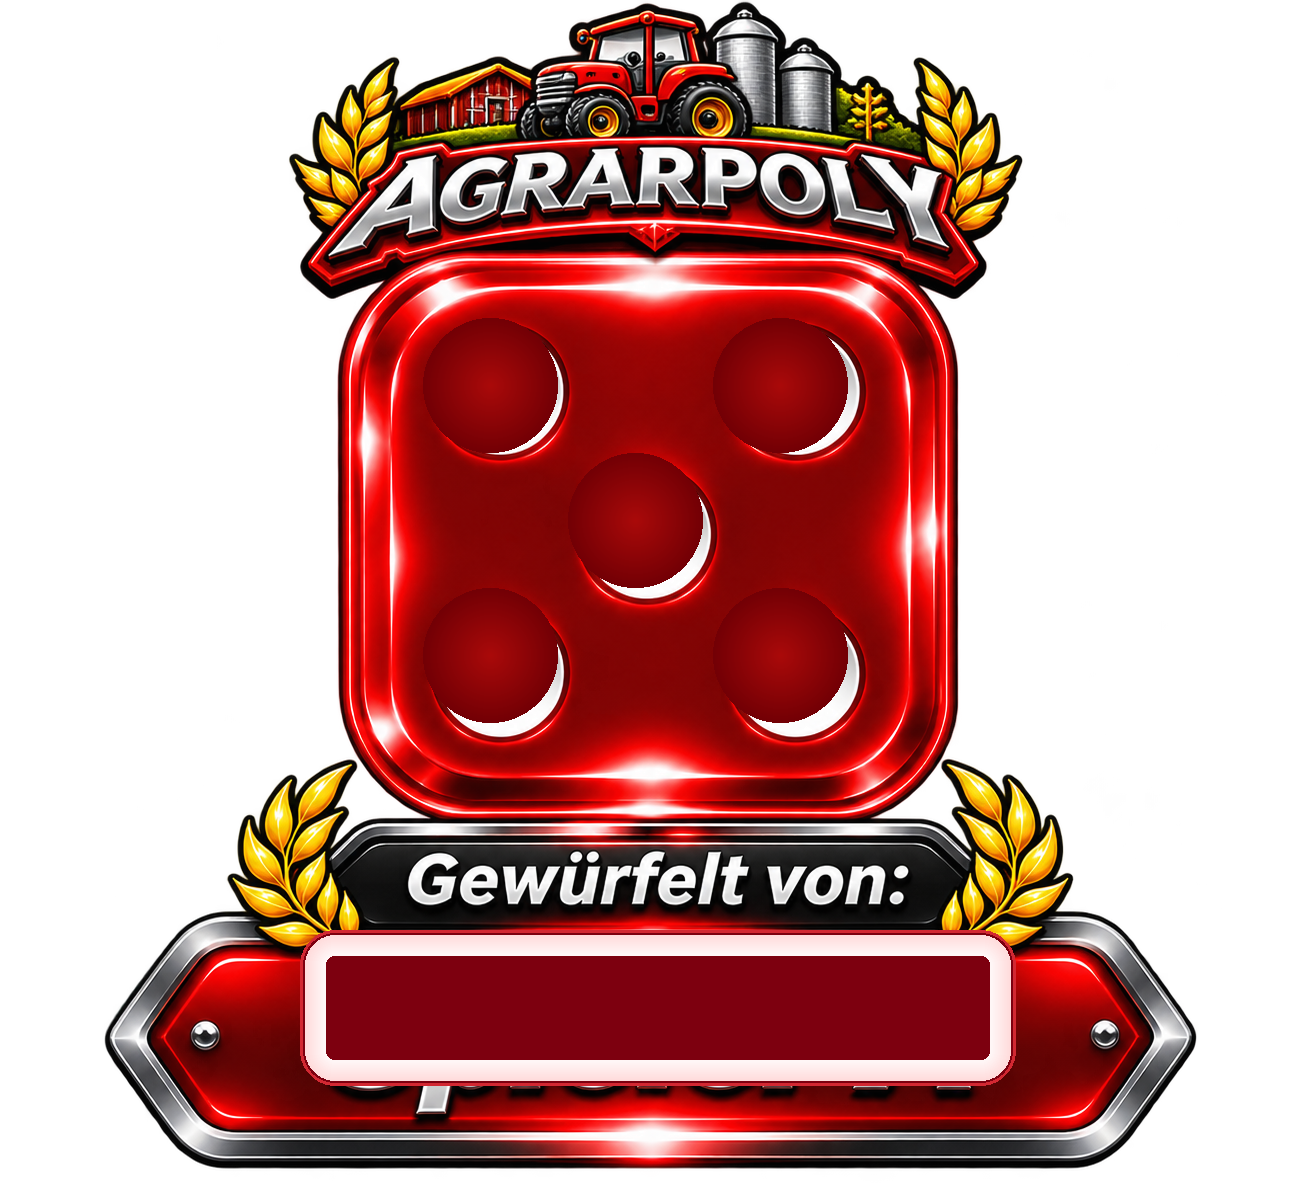
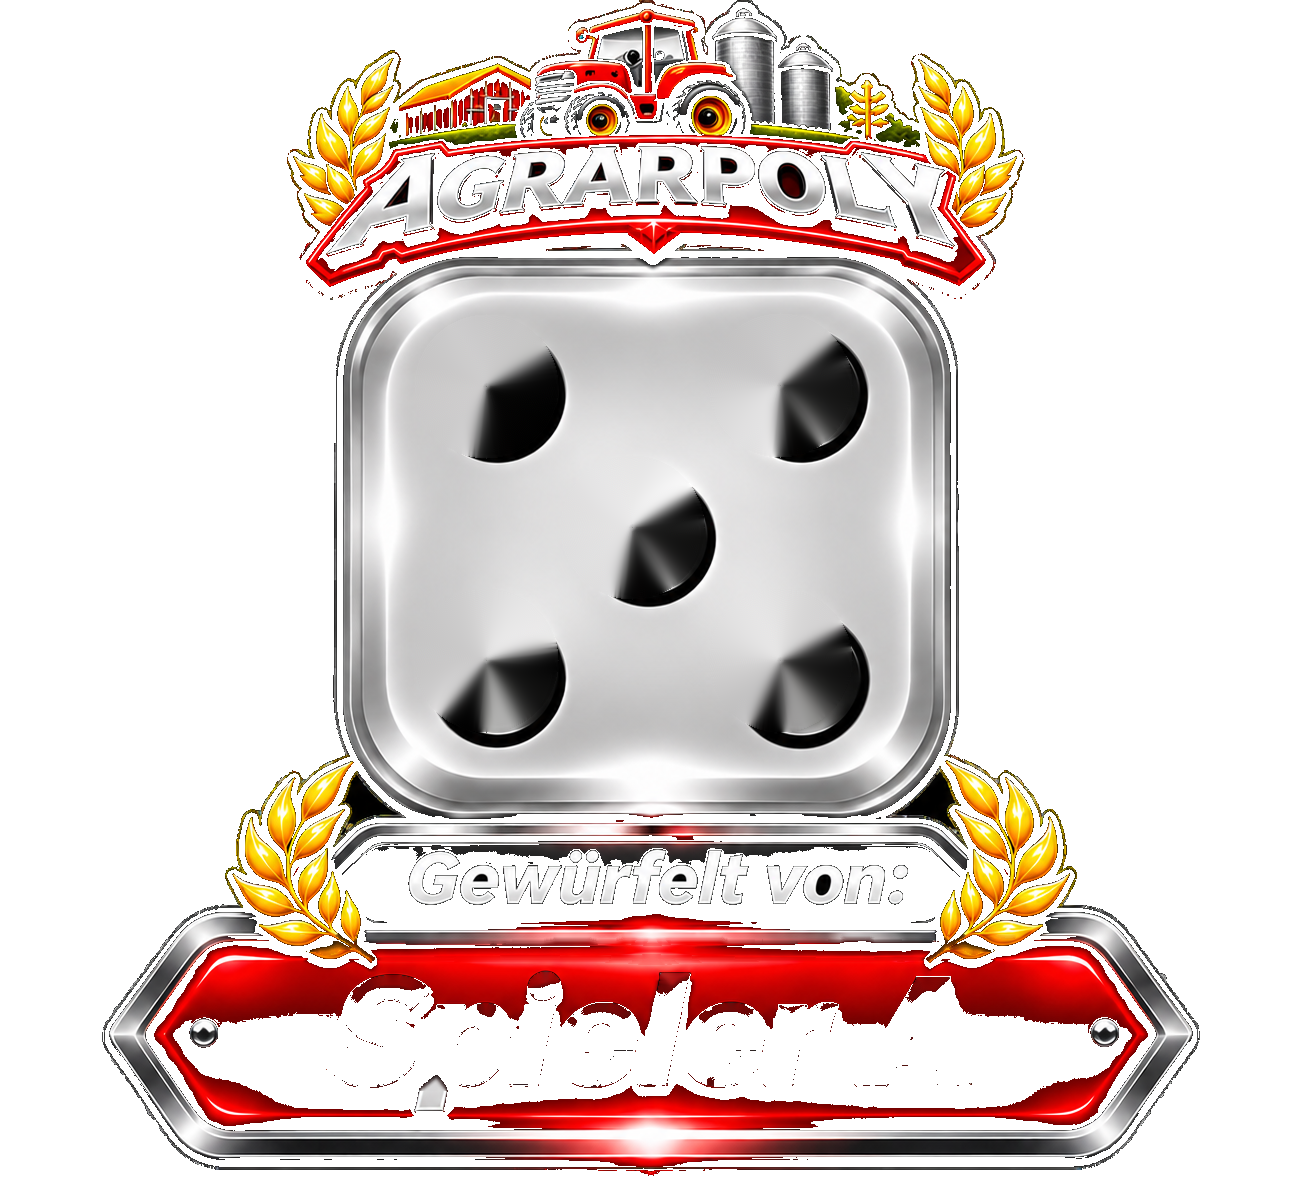
Add files via upload

diff --git a/index.html b/index.html
@@ -446,6 +446,11 @@ button.gold{
   .eventGrid .eventChoice{min-height:105px !important}
 }
 </style>
+
+<style>
+.dicePopupOverlay{position:fixed;inset:0;z-index:10000;display:none;align-items:center;justify-content:center;background:rgba(0,0,0,.68);backdrop-filter:blur(3px);padding:18px}.dicePopupOverlay.show{display:flex}.dicePopup{position:relative;width:min(620px,94vw);aspect-ratio:1312/1199;overflow:visible;text-align:center;filter:drop-shadow(0 0 32px rgba(229,9,47,.55))}.dicePopupArt{position:absolute;inset:0;width:100%;height:100%;object-fit:contain;pointer-events:none}.diceFace{position:absolute;left:25.7%;top:25.4%;width:48.6%;aspect-ratio:1;border-radius:18%;background:linear-gradient(145deg,#f8f8f8 0%,#dfe2e5 42%,#bfc3c7 100%);border:3px solid #f7f7f7;box-shadow:inset 0 0 18px #ffffffaa,inset 0 -12px 18px #7b7f84aa,0 0 8px #0008;display:grid;grid-template-columns:repeat(3,1fr);grid-template-rows:repeat(3,1fr);padding:11%;box-sizing:border-box;z-index:2;pointer-events:none}.dicePip{width:58%;aspect-ratio:1;border-radius:50%;justify-self:center;align-self:center;background:radial-gradient(circle at 35% 30%,#444 0%,#111 58%,#000 100%);box-shadow:inset 0 1px 2px #777,0 2px 6px #000}
+.dicePip.p1{grid-area:1/1}.dicePip.p2{grid-area:1/2}.dicePip.p3{grid-area:1/3}.dicePip.p4{grid-area:2/1}.dicePip.p5{grid-area:2/2}.dicePip.p6{grid-area:2/3}.dicePip.p7{grid-area:3/1}.dicePip.p8{grid-area:3/2}.dicePip.p9{grid-area:3/3}.dicePopupNameCover{position:absolute;left:23%;top:75.7%;width:54%;height:12.2%;z-index:3;border-radius:20px;background:linear-gradient(180deg,#d9162f 0%,#8f001d 65%,#5b000c 100%);border:3px solid #ff5555;box-shadow:inset 0 0 12px #ff777766,0 0 10px #e5092f66;display:flex;align-items:center;justify-content:center}.dicePopupPlayer{font-size:clamp(15px,3vw,24px);font-weight:1000;color:#fff;text-shadow:0 2px 3px #000;white-space:nowrap;overflow:hidden;text-overflow:ellipsis;padding:0 12px}.dicePopupClose{position:absolute;left:30%;bottom:-2%;width:40%;z-index:4;padding:11px 12px;border:2px solid #e5092f;border-radius:10px;background:#8f001d;color:#fff;font-size:14px;font-weight:1000;cursor:pointer;box-shadow:0 0 18px #e5092f55}.dicePopupClose:hover{background:#b00025;box-shadow:0 0 25px #e5092f88}@media(max-width:560px){.dicePopupClose{font-size:11px;padding:8px 6px}.dicePopupNameCover{border-radius:12px}}
+</style>
 </head>
 <body><div class="wrap">
 <header class="heroBanner">
@@ -501,9 +506,7 @@ button.gold{
     </aside>
   </div>
 
-  
-<div id="dicePopup" class="dicePopup hidden"><div class="dicePopupBox"><div class="dicePopupLabel">🎲 WÜRFELERGEBNIS</div><div id="dicePopupPlayer" class="dicePopupPlayer">–</div><div id="dicePopupDie" class="dicePopupDie">–</div><div id="dicePopupValue" class="dicePopupValue">–</div><button class="red dicePopupClose" type="button" onclick="closeDicePopupGlobal()">✓ WÜRFEL SCHLIESSEN</button></div></div>
-<div id="master" class="panel master hide">
+  <div id="master" class="panel master hide">
     <div class="mastergrid mastergrid-top">
       <button class="red" onclick="start()">▶ SPIEL STARTEN</button>
       <button class="red" id="releaseBtn" onclick="release()">🎲 WÜRFEL FREIGEBEN</button>
@@ -552,6 +555,8 @@ button.gold{
   </div>
 </section>
 </div>
+
+<div id="dicePopupOverlay" class="dicePopupOverlay" aria-hidden="true"><div class="dicePopup" role="dialog" aria-modal="true"><img class="dicePopupArt" src="/assets/dice_popup_base.png" alt="Würfel"><div id="dicePopupDie" class="diceFace" aria-label="Würfelergebnis"></div><div class="dicePopupNameCover"><div id="dicePopupPlayer" class="dicePopupPlayer"></div></div><button id="dicePopupClose" class="dicePopupClose" type="button">✓ WÜRFEL SCHLIESSEN</button></div></div>
 <script src="/socket.io/socket.io.js"></script>
 <script>
 const s=io(); let role="", myId=null, lastShown=null; const faces=["","1","2","3","4","5","6"];
@@ -570,7 +575,7 @@ function copyOverlayLink(){const link=getOverlayLink(); if(!link)return; copyTex
 function openOverlayLink(){const link=getOverlayLink(); if(link)window.open(link,"_blank")}
 function masterPlay(participate){myId=participate?0:null;s.emit("masterPlay",{participate,name:document.getElementById("masterName").value.trim()||"Master"})}
 function join(){s.emit("join",{code:document.getElementById("joinCode").value.trim(),name:document.getElementById("playerName").value.trim()})}
-function start(){s.emit("start")} function release(){s.emit("release")} function releaseEvent(){s.emit("releaseEvent")} function skipEvent(){s.emit("skipEvent")} function claimEvent(slot){s.emit("claimEvent",{slot})} function continueEvent(){s.emit("continueEvent")} function skip(){s.emit("skip")} function newRound(){s.emit("newRound")} function resetGame(){s.emit("reset")} function roll(){s.emit("roll")} function closeDicePopupGlobal(){s.emit("closeDicePopup")}
+function start(){s.emit("start")} function release(){s.emit("release")} function releaseEvent(){s.emit("releaseEvent")} function skipEvent(){s.emit("skipEvent")} function claimEvent(slot){s.emit("claimEvent",{slot})} function continueEvent(){s.emit("continueEvent")} function skip(){s.emit("skip")} function newRound(){s.emit("newRound")} function resetGame(){s.emit("reset")} function roll(){s.emit("roll")}
 s.on("created",d=>{
   role="master"; myId=null;
   document.getElementById("gameCode").textContent=d.code||"–";
@@ -620,17 +625,11 @@ function renderCards(st,isMine){
   }
 }
 
-function renderDicePopup(st){
-  const popup=document.getElementById("dicePopup");
-  if(!popup)return;
-  const show=!!(st.event&&st.event.rollValue&&!st.event.dicePopupClosed);
-  popup.classList.toggle("hidden",!show);
-  if(!show)return;
-  const p=st.players?.find(x=>x.id===st.event.playerId);
-  document.getElementById("dicePopupPlayer").textContent=p?.name||"Spieler";
-  document.getElementById("dicePopupDie").textContent=faces[st.event.rollValue]||String(st.event.rollValue);
-  document.getElementById("dicePopupValue").textContent="Gewürfelt: "+st.event.rollValue;
-}
+
+function closeDicePopupGlobal(){s.emit('closeDicePopup')}
+function closeDicePopup(){const el=document.getElementById('dicePopupOverlay');if(el){el.classList.remove('show');el.setAttribute('aria-hidden','true')}}
+function renderDicePopup(st){const overlay=document.getElementById('dicePopupOverlay');if(!overlay)return;if(!st?.event?.rollValue||st.event.dicePopupClosed){dismissedDicePopupKey=null;closeDicePopup();return}const key=String(st.event.playerId)+':'+String(st.event.rollValue);if(dismissedDicePopupKey===key){closeDicePopup();return}const player=(st.players||[]).find(p=>p.id===st.event.playerId);document.getElementById('dicePopupPlayer').textContent=player?.name||'Spieler';const die=document.getElementById('dicePopupDie');const layouts={1:[5],2:[1,9],3:[1,5,9],4:[1,3,7,9],5:[1,3,5,7,9],6:[1,3,4,6,7,9]};die.innerHTML=(layouts[Number(st.event.rollValue)]||[]).map(n=>`<span class=\"dicePip p${n}\"></span>`).join('');overlay.classList.add('show');overlay.setAttribute('aria-hidden','false')}
+document.getElementById('dicePopupClose')?.addEventListener('click',()=>{const st=window.__state;if(st?.event?.rollValue)dismissedDicePopupKey=String(st.event.playerId)+':'+String(st.event.rollValue);closeDicePopupGlobal()});
 
 s.on("state",st=>{
   const current=st.players[st.currentPlayer], next=st.players[st.currentPlayer+1], mine=role==="master"&&st.masterParticipates?st.players.find(p=>p.isMasterPlayer):st.players.find(p=>p.id===myId), isMine=(role==="player"&&current?.id===myId)||(role==="master"&&st.masterParticipates&&current?.isMasterPlayer);
@@ -645,8 +644,9 @@ s.on("state",st=>{
   document.getElementById("you").textContent=role==="master"?(st.masterParticipates&&isMine?(st.event?"Du bist dran – zuerst Ereigniskarte abwarten.":(st.released?"Du bist dran – du darfst würfeln!":"Warte auf die Würfelfreigabe.")):"Du bist der Master – du steuerst die Freigabe."):(isMine?(st.event?(st.event.accessGranted?"Wähle eine verdeckte Ereigniskarte.":"Ereigniskarten sind noch nicht freigegeben."):(st.released?"Du bist dran – du darfst würfeln!":"Du bist dran – warte auf die Freigabe.")):"Der Master steuert die Freigabe.");
   document.getElementById("myStatus").textContent=role==="master"?(st.masterParticipates&&isMine?(st.event?"EREIGNISKARTE":(st.released?"WÜRFELN FREIGEGEBEN":"WARTE AUF FREIGABE")):"MASTER-STEUERUNG"):(isMine?(st.event?(st.event.accessGranted?"KARTE AUSWÄHLEN":"WARTE AUF KARTENFREIGABE"):(st.released?"WÜRFEL FREIGEGEBEN":"Warte auf Freigabe…")):"Warte auf deinen Zug…");
   renderCards(st,isMine);
-  renderDicePopup(st);
   renderPlayerOverview(st);
+  window.__state=st;
+  renderDicePopup(st);
   document.getElementById("game").classList.toggle("master-mode", role === "master");
   const gameShell=document.querySelector("#game > .game");
   const rightPanel=gameShell?.querySelector("aside:last-child");

diff --git a/public/index.html b/public/index.html
@@ -448,7 +448,8 @@ button.gold{
 </style>
 
 <style>
-.dicePopupOverlay{position:fixed;inset:0;z-index:10000;display:none;align-items:center;justify-content:center;background:rgba(0,0,0,.68);backdrop-filter:blur(3px);padding:18px}.dicePopupOverlay.show{display:flex}.dicePopup{position:relative;width:min(620px,94vw);aspect-ratio:1312/1199;overflow:visible;text-align:center;filter:drop-shadow(0 0 32px rgba(229,9,47,.55))}.dicePopupArt{position:absolute;inset:0;width:100%;height:100%;object-fit:contain;pointer-events:none}.diceFace{position:absolute;left:24.5%;top:24.2%;width:51%;aspect-ratio:1;border-radius:18%;background:radial-gradient(circle at 35% 28%,#ff4b4b 0%,#e5092f 28%,#a40018 68%,#62000d 100%);border:5px solid #ff5a5a;box-shadow:inset 0 0 22px #ff7a7a88,inset 0 -14px 22px #4a0008,0 0 16px #e5092f99;display:grid;grid-template-columns:repeat(3,1fr);grid-template-rows:repeat(3,1fr);padding:11%;box-sizing:border-box;z-index:2}.dicePip{width:58%;aspect-ratio:1;border-radius:50%;justify-self:center;align-self:center;background:radial-gradient(circle at 35% 30%,#fff 0%,#f4f4f4 55%,#bfc2c5 100%);box-shadow:0 2px 7px #30000a,0 0 8px #fff8}.dicePip.p1{grid-area:1/1}.dicePip.p2{grid-area:1/2}.dicePip.p3{grid-area:1/3}.dicePip.p4{grid-area:2/1}.dicePip.p5{grid-area:2/2}.dicePip.p6{grid-area:2/3}.dicePip.p7{grid-area:3/1}.dicePip.p8{grid-area:3/2}.dicePip.p9{grid-area:3/3}.dicePopupNameCover{position:absolute;left:23%;top:75.7%;width:54%;height:12.2%;z-index:3;border-radius:20px;background:linear-gradient(180deg,#d9162f 0%,#8f001d 65%,#5b000c 100%);border:3px solid #ff5555;box-shadow:inset 0 0 12px #ff777766,0 0 10px #e5092f66;display:flex;align-items:center;justify-content:center}.dicePopupPlayer{font-size:clamp(15px,3vw,24px);font-weight:1000;color:#fff;text-shadow:0 2px 3px #000;white-space:nowrap;overflow:hidden;text-overflow:ellipsis;padding:0 12px}.dicePopupClose{position:absolute;left:30%;bottom:-2%;width:40%;z-index:4;padding:11px 12px;border:2px solid #e5092f;border-radius:10px;background:#8f001d;color:#fff;font-size:14px;font-weight:1000;cursor:pointer;box-shadow:0 0 18px #e5092f55}.dicePopupClose:hover{background:#b00025;box-shadow:0 0 25px #e5092f88}@media(max-width:560px){.dicePopupClose{font-size:11px;padding:8px 6px}.dicePopupNameCover{border-radius:12px}}
+.dicePopupOverlay{position:fixed;inset:0;z-index:10000;display:none;align-items:center;justify-content:center;background:rgba(0,0,0,.68);backdrop-filter:blur(3px);padding:18px}.dicePopupOverlay.show{display:flex}.dicePopup{position:relative;width:min(620px,94vw);aspect-ratio:1312/1199;overflow:visible;text-align:center;filter:drop-shadow(0 0 32px rgba(229,9,47,.55))}.dicePopupArt{position:absolute;inset:0;width:100%;height:100%;object-fit:contain;pointer-events:none}.diceFace{position:absolute;left:25.7%;top:25.4%;width:48.6%;aspect-ratio:1;border-radius:18%;background:linear-gradient(145deg,#f8f8f8 0%,#dfe2e5 42%,#bfc3c7 100%);border:3px solid #f7f7f7;box-shadow:inset 0 0 18px #ffffffaa,inset 0 -12px 18px #7b7f84aa,0 0 8px #0008;display:grid;grid-template-columns:repeat(3,1fr);grid-template-rows:repeat(3,1fr);padding:11%;box-sizing:border-box;z-index:2;pointer-events:none}.dicePip{width:58%;aspect-ratio:1;border-radius:50%;justify-self:center;align-self:center;background:radial-gradient(circle at 35% 30%,#444 0%,#111 58%,#000 100%);box-shadow:inset 0 1px 2px #777,0 2px 6px #000}
+.dicePip.p1{grid-area:1/1}.dicePip.p2{grid-area:1/2}.dicePip.p3{grid-area:1/3}.dicePip.p4{grid-area:2/1}.dicePip.p5{grid-area:2/2}.dicePip.p6{grid-area:2/3}.dicePip.p7{grid-area:3/1}.dicePip.p8{grid-area:3/2}.dicePip.p9{grid-area:3/3}.dicePopupNameCover{position:absolute;left:23%;top:75.7%;width:54%;height:12.2%;z-index:3;border-radius:20px;background:linear-gradient(180deg,#d9162f 0%,#8f001d 65%,#5b000c 100%);border:3px solid #ff5555;box-shadow:inset 0 0 12px #ff777766,0 0 10px #e5092f66;display:flex;align-items:center;justify-content:center}.dicePopupPlayer{font-size:clamp(15px,3vw,24px);font-weight:1000;color:#fff;text-shadow:0 2px 3px #000;white-space:nowrap;overflow:hidden;text-overflow:ellipsis;padding:0 12px}.dicePopupClose{position:absolute;left:30%;bottom:-2%;width:40%;z-index:4;padding:11px 12px;border:2px solid #e5092f;border-radius:10px;background:#8f001d;color:#fff;font-size:14px;font-weight:1000;cursor:pointer;box-shadow:0 0 18px #e5092f55}.dicePopupClose:hover{background:#b00025;box-shadow:0 0 25px #e5092f88}@media(max-width:560px){.dicePopupClose{font-size:11px;padding:8px 6px}.dicePopupNameCover{border-radius:12px}}
 </style>
 </head>
 <body><div class="wrap">

diff --git a/README.md b/README.md
@@ -15,3 +15,9 @@
 
 ## Hinweis
 Diese Version baut auf V2.11 auf. Es gibt nur diese eine `README.md`.
+
+
+## V2.15
+- Neues Würfel-Popup mit weißem/silbernem Würfel in Draufsicht.
+- Spielername bleibt dynamisch.
+- Gemeinsames Schließen des Würfel-Popups bleibt erhalten.
